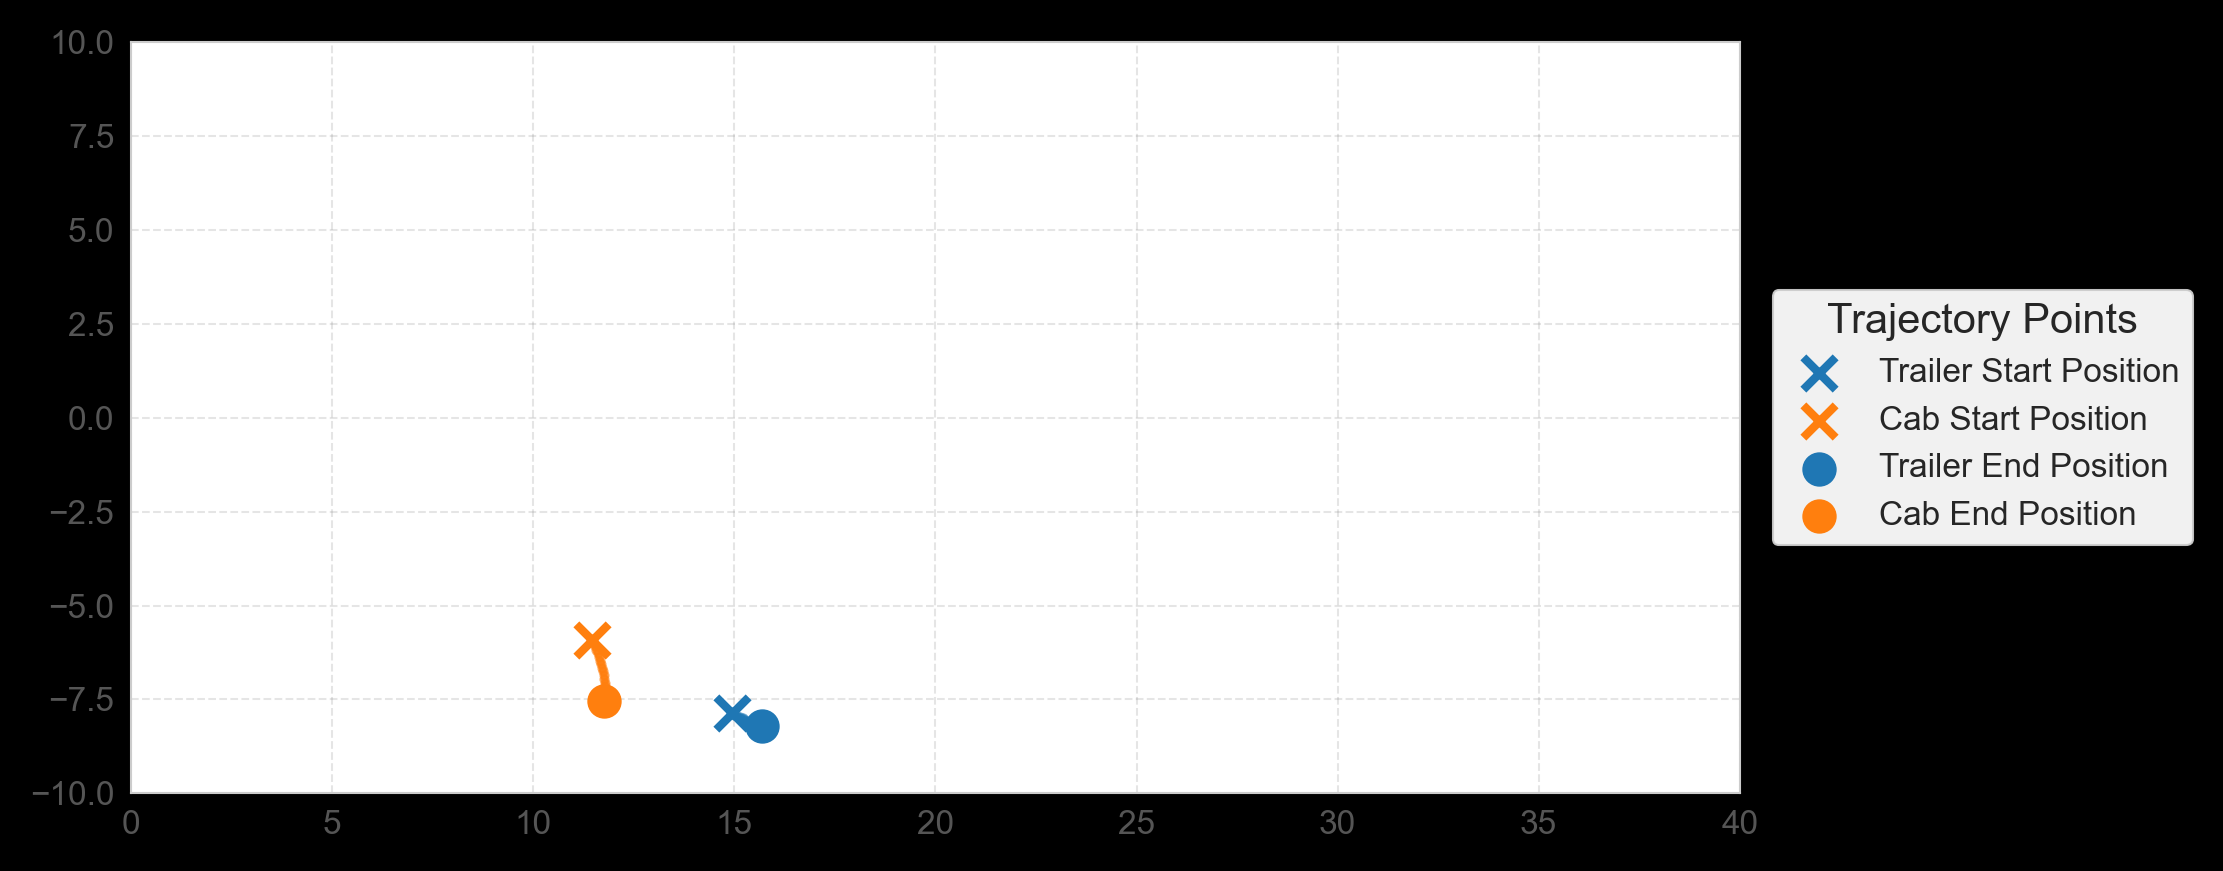
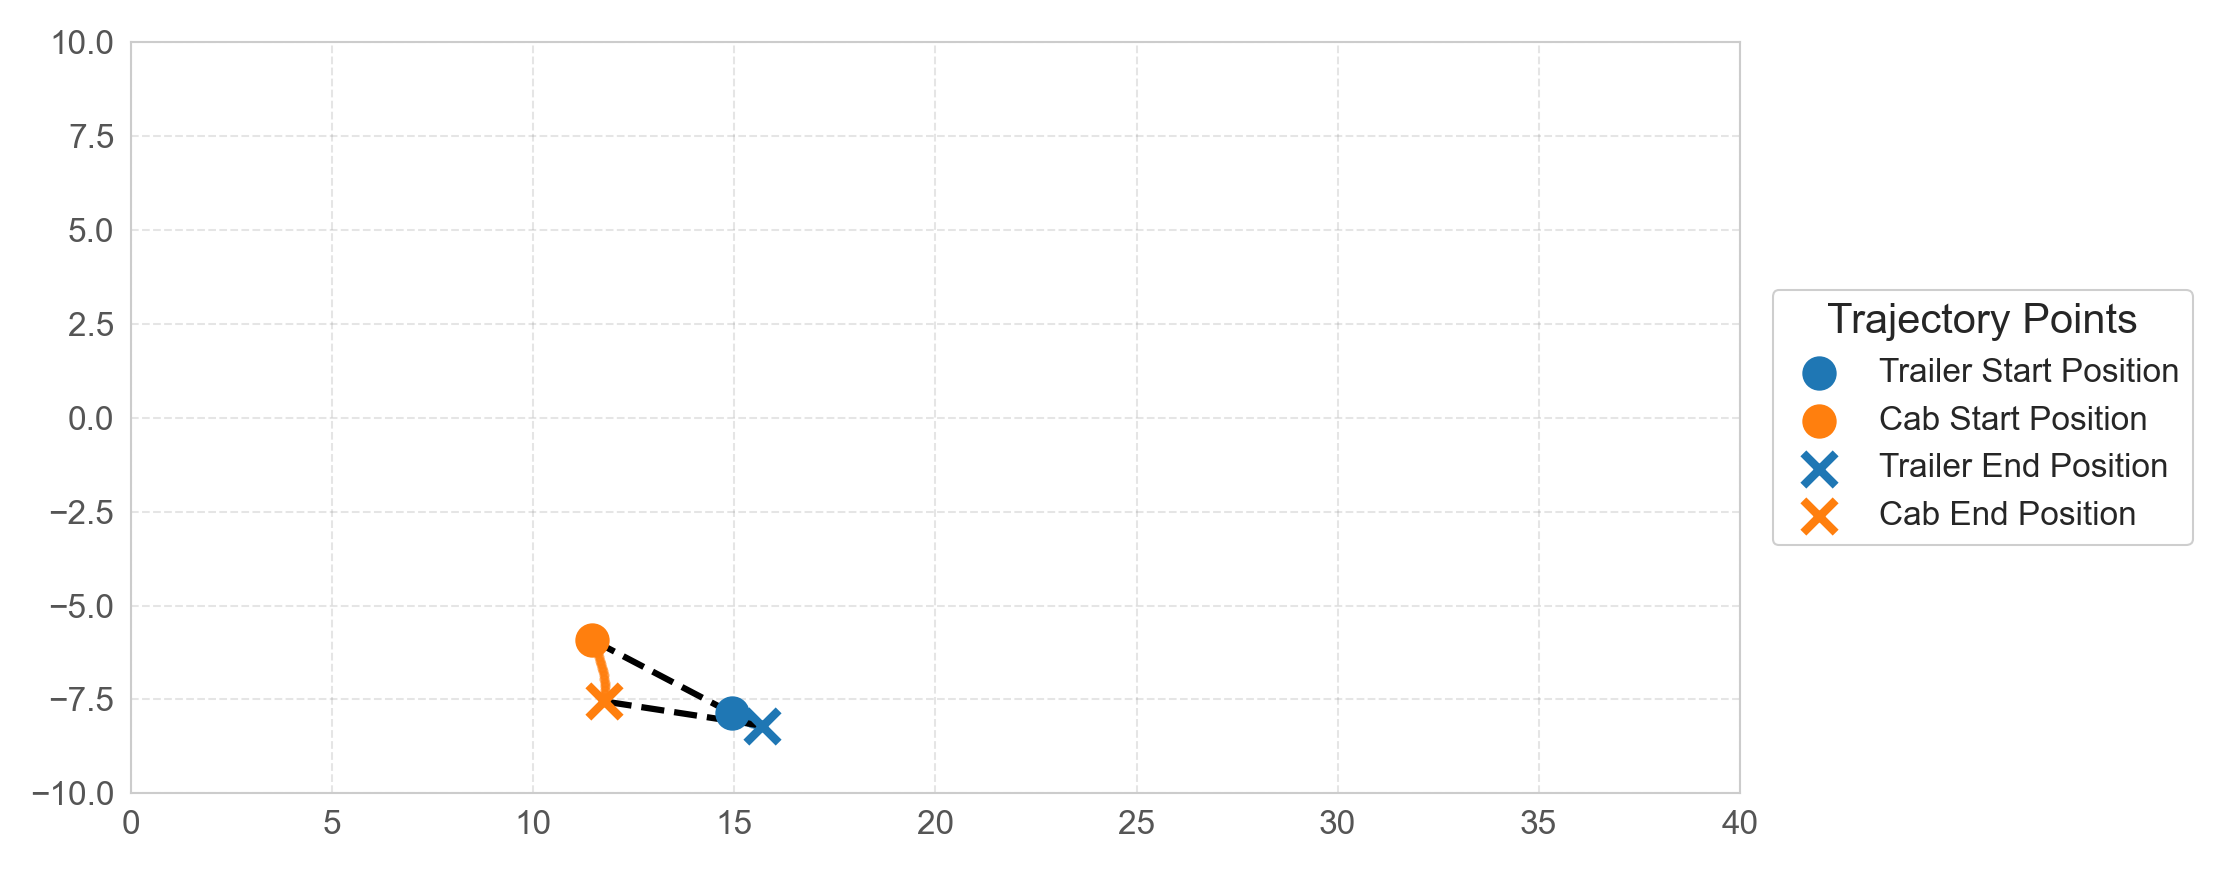
README is updated, trajectories are added

diff --git a/truck-backer-upper.py b/truck-backer-upper.py
@@ -16,10 +16,10 @@ import os
 import shutil
 
 num_lessons = 10
+train_eval = "eval"
 current_time = datetime.now().strftime("%Y-%m-%d_%I-%M%p")
 π = pi
 style.use(['dark_background', 'bmh'])
-
 
 def create_lesson_configs(num_lessons):
     configs = {}
@@ -267,20 +267,29 @@ class Truck:
                     color=cab_color, marker='.', s=15, alpha=0.6)
         
         plt.scatter(x_trailer_trajectory[0], y_trailer_trajectory[0], 
-                   marker='x', color=trailer_color, s=60, zorder=10, 
+                   marker='o', color=trailer_color, s=60, zorder=10, 
                    label='Trailer Start Position')
         
         plt.scatter(x_cab_trajectory[0], y_cab_trajectory[0], 
-                   marker='x', color=cab_color, s=60, zorder=10,
+                   marker='o', color=cab_color, s=60, zorder=10,
                    label='Cab Start Position')
                 
         plt.scatter(x_trailer_trajectory[-1], y_trailer_trajectory[-1], 
-                   marker='o', color=trailer_color, s=60, zorder=10,
+                   marker='x', color=trailer_color, s=60, zorder=10,
                    label='Trailer End Position')
         
         plt.scatter(x_cab_trajectory[-1], y_cab_trajectory[-1], 
-                   marker='o', color=cab_color, s=60, zorder=10,
+                   marker='x', color=cab_color, s=60, zorder=10,
                    label='Cab End Position')
+        
+        plt.plot([x_trailer_trajectory[0], x_cab_trajectory[0]], 
+                [y_trailer_trajectory[0], y_cab_trajectory[0]], 
+                'k--', linewidth=1.5) 
+
+        plt.plot([x_trailer_trajectory[-1], x_cab_trajectory[-1]], 
+                [y_trailer_trajectory[-1], y_cab_trajectory[-1]], 
+                'k--', linewidth=1.5)
+        
         
         plt.xlim(self.box[0], self.box[1])
         plt.ylim(self.box[2], self.box[3])
@@ -298,14 +307,16 @@ class Truck:
         plt.tick_params(axis='both', which='major', labelsize=8, pad=4, colors='#555555')
         
         plt.tight_layout()
-        # Make space for the legend
         plt.subplots_adjust(right=0.78)
         
         directory = f'trajectories/lesson-{self.lesson}'
         
         if not os.path.exists(directory):
             os.makedirs(directory)  
-        plt.savefig(f'{directory}/trajectory-{test_seed}.png', dpi=300, bbox_inches='tight')        
+            
+        fig = plt.gcf() 
+        fig.patch.set_facecolor('white')      
+        plt.savefig(f'{directory}/trajectory-{test_seed}.png', dpi=300, facecolor='white', bbox_inches='tight')        
         
         plt.show()
     def update_state(self, state): 
@@ -317,7 +328,6 @@ def generate_random_deg(mean, std, lower_bound, upper_bound):
     samples = stats.truncnorm.rvs(a, b, loc=mean, scale=std, size=1)
     sample = samples[0]    
     return sample
-
 
 def initialize_emulator(): 
     emulator = nn.Sequential(
@@ -344,7 +354,6 @@ def initialize_controller():
     torch.save(controller, 'models/controllers/controller_lesson_0.pth')
     return controller
 
-
 criterion_emulator = nn.MSELoss()  
 
 def criterion_controller(ϕ_state):
@@ -357,6 +366,7 @@ def criterion_controller(ϕ_state):
     x_tr_relu = nn.functional.relu(x_tr)
     min_θ1 = torch.min(torch.abs(θ1), torch.abs(torch.abs(θ1) - deg2rad(360)))
     return (x_tr_relu**2 + y_tr**2 + min_θ1**2 + angle_diff_relu**2) / 4
+
 
 def train_emulator(emulator, 
                    episodes, 
@@ -442,6 +452,7 @@ def train_emulator(emulator,
     
     return emulator
 
+
 def train_controller(lesson, 
                      controller, 
                      epochs, 
@@ -501,38 +512,39 @@ def train_controller(lesson,
             
     return controller
 
-emulators_dir = 'models/emulators'
-if os.path.exists(emulators_dir):
-    shutil.rmtree(emulators_dir)
-os.makedirs(emulators_dir)
-
-emulator = initialize_emulator()
-
-for lesson in range(1, num_lessons + 2):
-    print(" Lesson {}:".format(lesson))
-    emulator = train_emulator(lesson = lesson,
-                              emulator = emulator,
-                              episodes = 10_000,
-                              learning_rate = 0.00001)
-    print()
+if train_eval == "train":
+    emulators_dir = 'models/emulators'
+    if os.path.exists(emulators_dir):
+        shutil.rmtree(emulators_dir)
+    os.makedirs(emulators_dir)
     
-controllers_dir = 'models/controllers'
-if os.path.exists(controllers_dir):
-    shutil.rmtree(controllers_dir)
-os.makedirs(controllers_dir)
+    emulator = initialize_emulator()
 
-
-controller = initialize_controller() #controller_0
-
-for lesson in range(1, num_lessons + 2): 
-    print(" Lesson {}:".format(lesson))
-    controller = train_controller(lesson = lesson, 
-                                  controller = controller, # controller_0
-                                  epochs = 3000,
-                                  max_steps = 400)
-    print()
+    for lesson in range(1, num_lessons + 2):
+        print(" Lesson {}:".format(lesson))
+        emulator = train_emulator(lesson = lesson,
+                                emulator = emulator,
+                                episodes = 10_000,
+                                learning_rate = 0.00001)
+        print()
+        
+    controllers_dir = 'models/controllers'
     
-    
+    if os.path.exists(controllers_dir):
+        shutil.rmtree(controllers_dir)
+    os.makedirs(controllers_dir)
+
+    controller = initialize_controller()
+
+    for lesson in range(1, num_lessons + 2): 
+        print(" Lesson {}:".format(lesson))
+        controller = train_controller(lesson = lesson, 
+                                    controller = controller,
+                                    epochs = 3000,
+                                    max_steps = 400)
+        print()
+
+
 final_lesson = 11
 test_controller = torch.load('models/controllers/controller_lesson_{}.pth'.format(final_lesson), weights_only = False)
 truck = Truck(lesson = final_lesson, display = True)
@@ -557,6 +569,3 @@ for test_seed in range(1,10):
         print(f"Trailer x: {trailer_x:.3f}, Trailer y: {trailer_y:.3f}")
         print()
 print(f"Number of Jackknifes: {num_jackknifes}")
-
-
-

diff --git a/README.md b/README.md
@@ -12,26 +12,18 @@
 
 <img src="videos/simulation-beyond-training.gif" width="75%" alt="Simulation After Training">
 
+## Trajectories
+
+![Trajectory 1](trajectories/trajectory-1.png)
+
+![Trajectory 4](trajectories/trajectory-4.png)
+
+![Trajectory 5](trajectories/trajectory-5.png)
+
 ## Training Process 
 
 ![Training Process](figures/training-process.png)
 
-## Updates 
-
-- There is no manual process in the notebook anymore.
-  - Lessons are now created automatically instead of manually. All we need to do is to specify the number of lessons, the first lesson configuration, and the last lesson configuration. After this, lessons will be created automatically.
-  - Previously, I was specifying the maximum number of steps (max_steps) the truck is allowed to take manually. And I was doing this for each lesson separately. Now, I use a fixed number of max_steps for all lessons and it seems like it is working.
-- Stopping condition checks are not being tracked by autodiff anymore.
-- The notebook is more clean now.
-  - The reset() function in the Truck class is updated to reduce redundant code.
-  - A new update_state() function is created in the Truck class. During the training of the controller, the state of the truck is now updated with this function.
-- I added visualizations of gradients and loss values to Wandb instead of tracking them in Tensorboard and in the notebook. They can be seen in the links below:
-  - [Emulator Training](https://api.wandb.ai/links/furkanozyurt21/ciflisl6)
-  - [Controller Training](https://api.wandb.ai/links/furkanozyurt21/hgxga7y0)
-- I visualized the computational graph for the controller. The visualization of computatinal graph can be seen in `computational-graphs` folder and the visualization of the training process can be found in `figures` folder.
 
 ## Notes
 - The version of the Python that is used in this notebook is 3.10.15. 
-- The truck is still not able to back up when it is initialized in horizontal and reverse positions unless we use the configuration below as a trick:
-  - `self.θ0 = min(self.θ0 - self.θ1, deg2rad(80)) + self.θ1`
-  - `self.θ0 = max(self.θ0 - self.θ1, deg2rad(-80)) + self.θ1`
